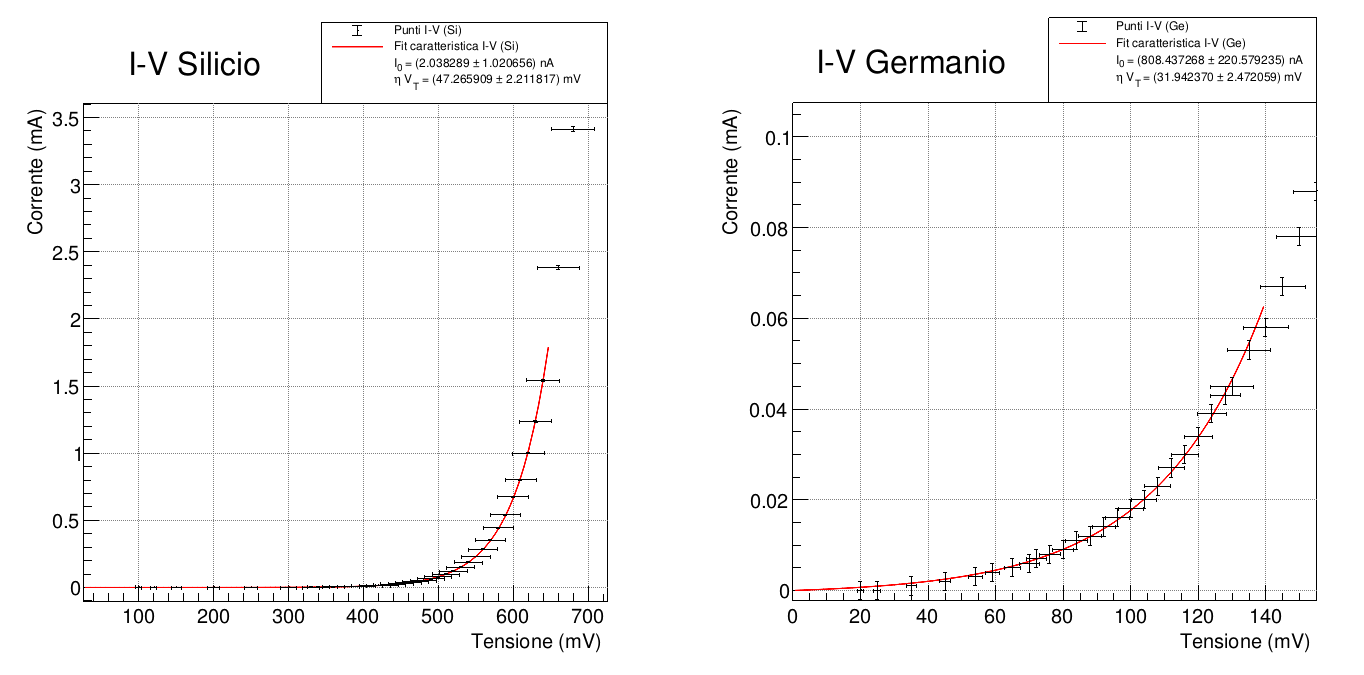
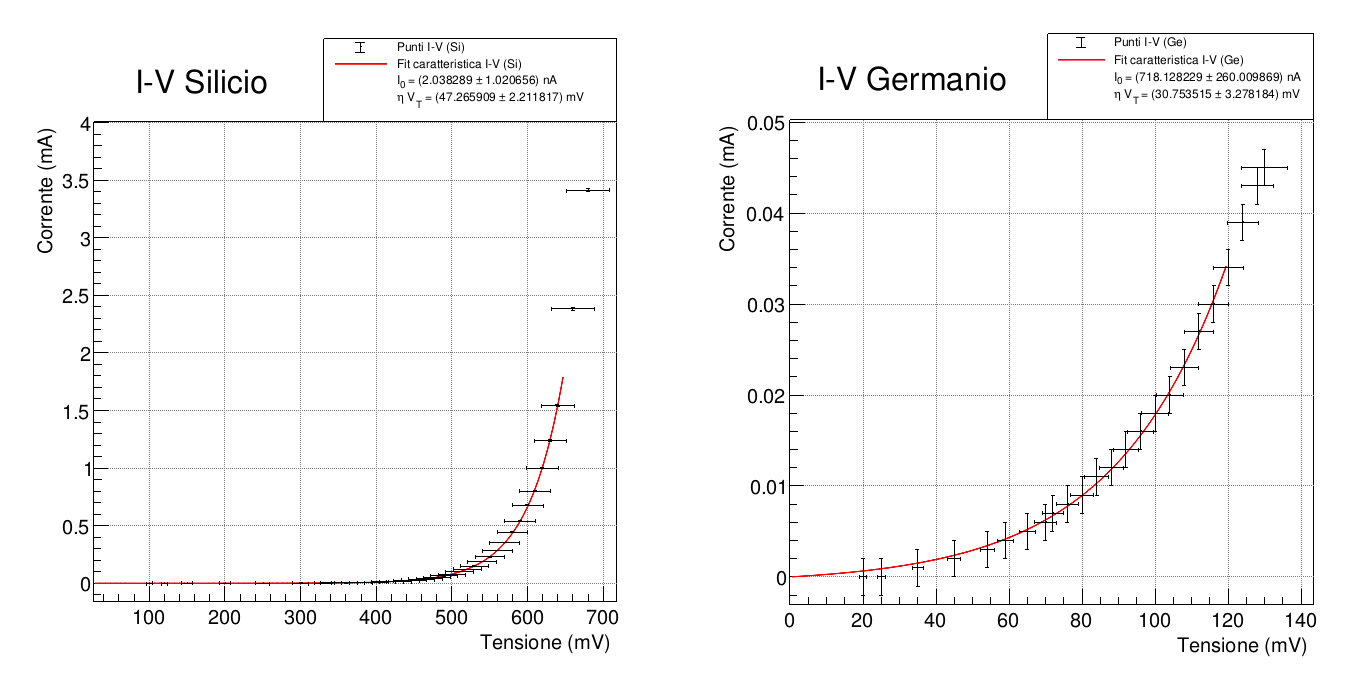
no no no

diff --git a/fit_diodato.C b/fit_diodato.C
@@ -21,7 +21,7 @@ void fit_diodato()
 
     TF1 *fit_Si = new TF1("fit_Si", "[0]*(TMath::Exp(x/[1]) - 1)", 0, 650);
     // TF1 * fit_Si = new TF1("fit_Si", "[0]*(TMath::Log(x/[1] + 1))", 0.00, 6);
-    TF1 *fit_Ge = new TF1("fit_Ge", "[0]*(TMath::Exp(x/[1]) - 1)", 0, 140);
+    TF1 *fit_Ge = new TF1("fit_Ge", "[0]*(TMath::Exp(x/[1]) - 1)", 0, 120);
 
     fit_Si->SetParameter(0, 1.484e-6);
     fit_Si->SetParameter(1, 46.05);
@@ -48,7 +48,7 @@ void fit_diodato()
     graph_Ge->GetXaxis()->SetTitleOffset(1.1);
     graph_Ge->GetYaxis()->SetTitleOffset(1.3);
 
-    gPad->SetLogy();
+    // gPad->SetLogy();
     canva->GetPad(1)->SetGrid();
     graph_Si->Draw("APE");
     
@@ -64,7 +64,7 @@ void fit_diodato()
     
 
     canva->cd(2);
-    gPad->SetLogy();
+    // gPad->SetLogy();
     canva->GetPad(2)->SetGrid();
     graph_Ge->Draw("APE");
 
